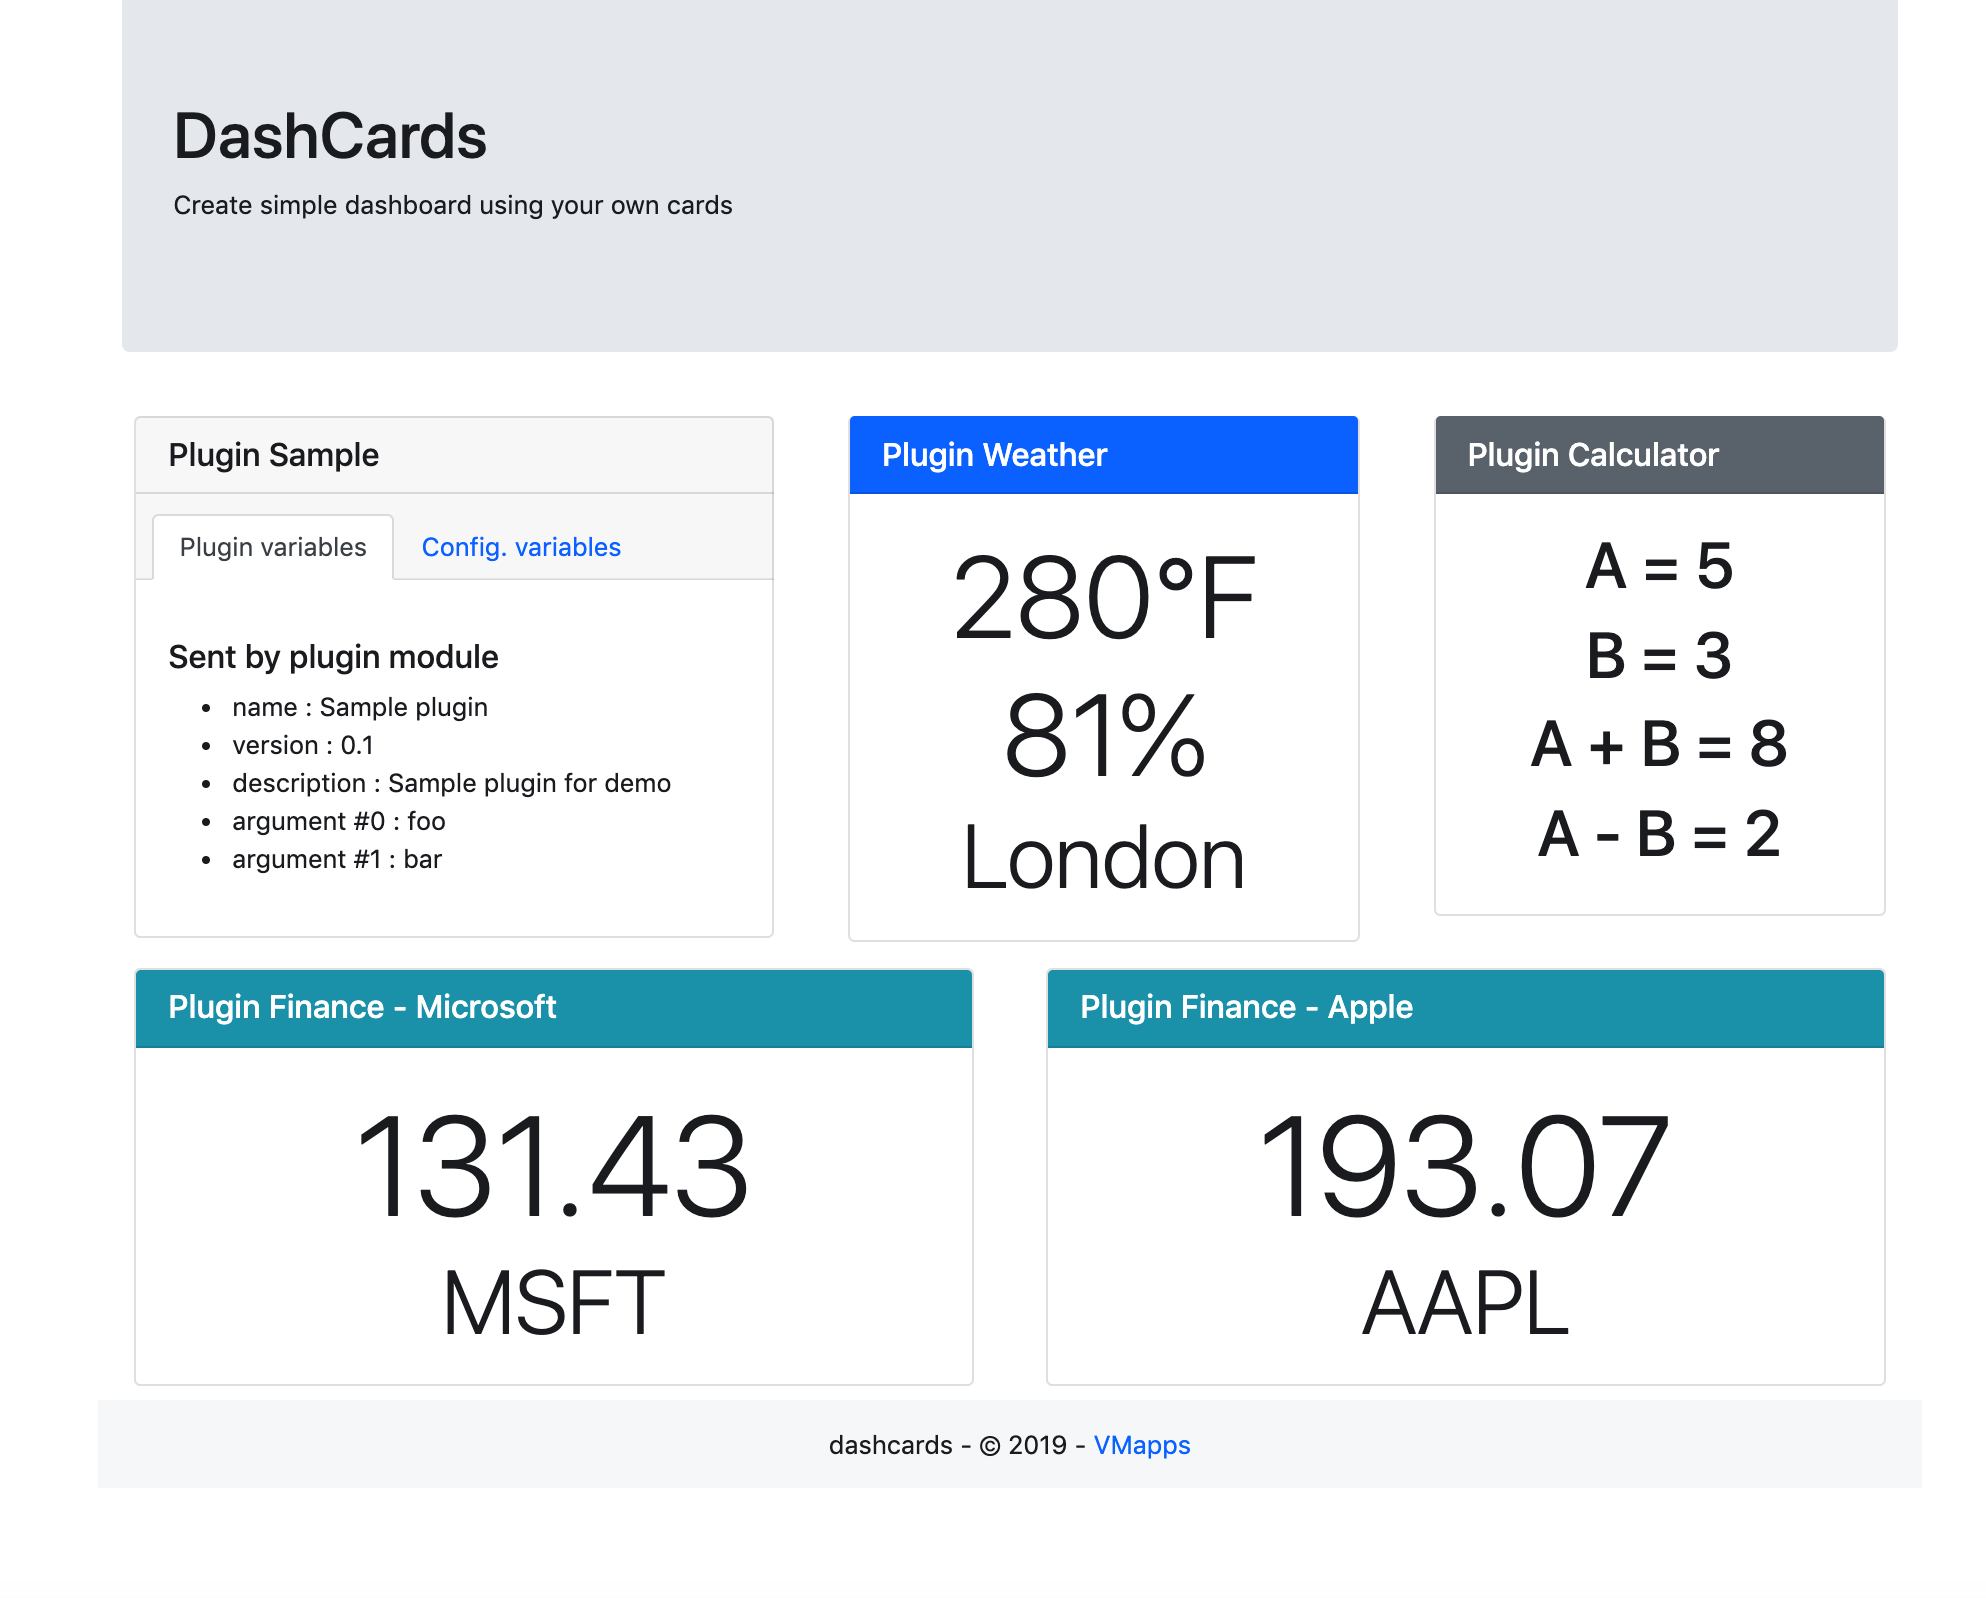
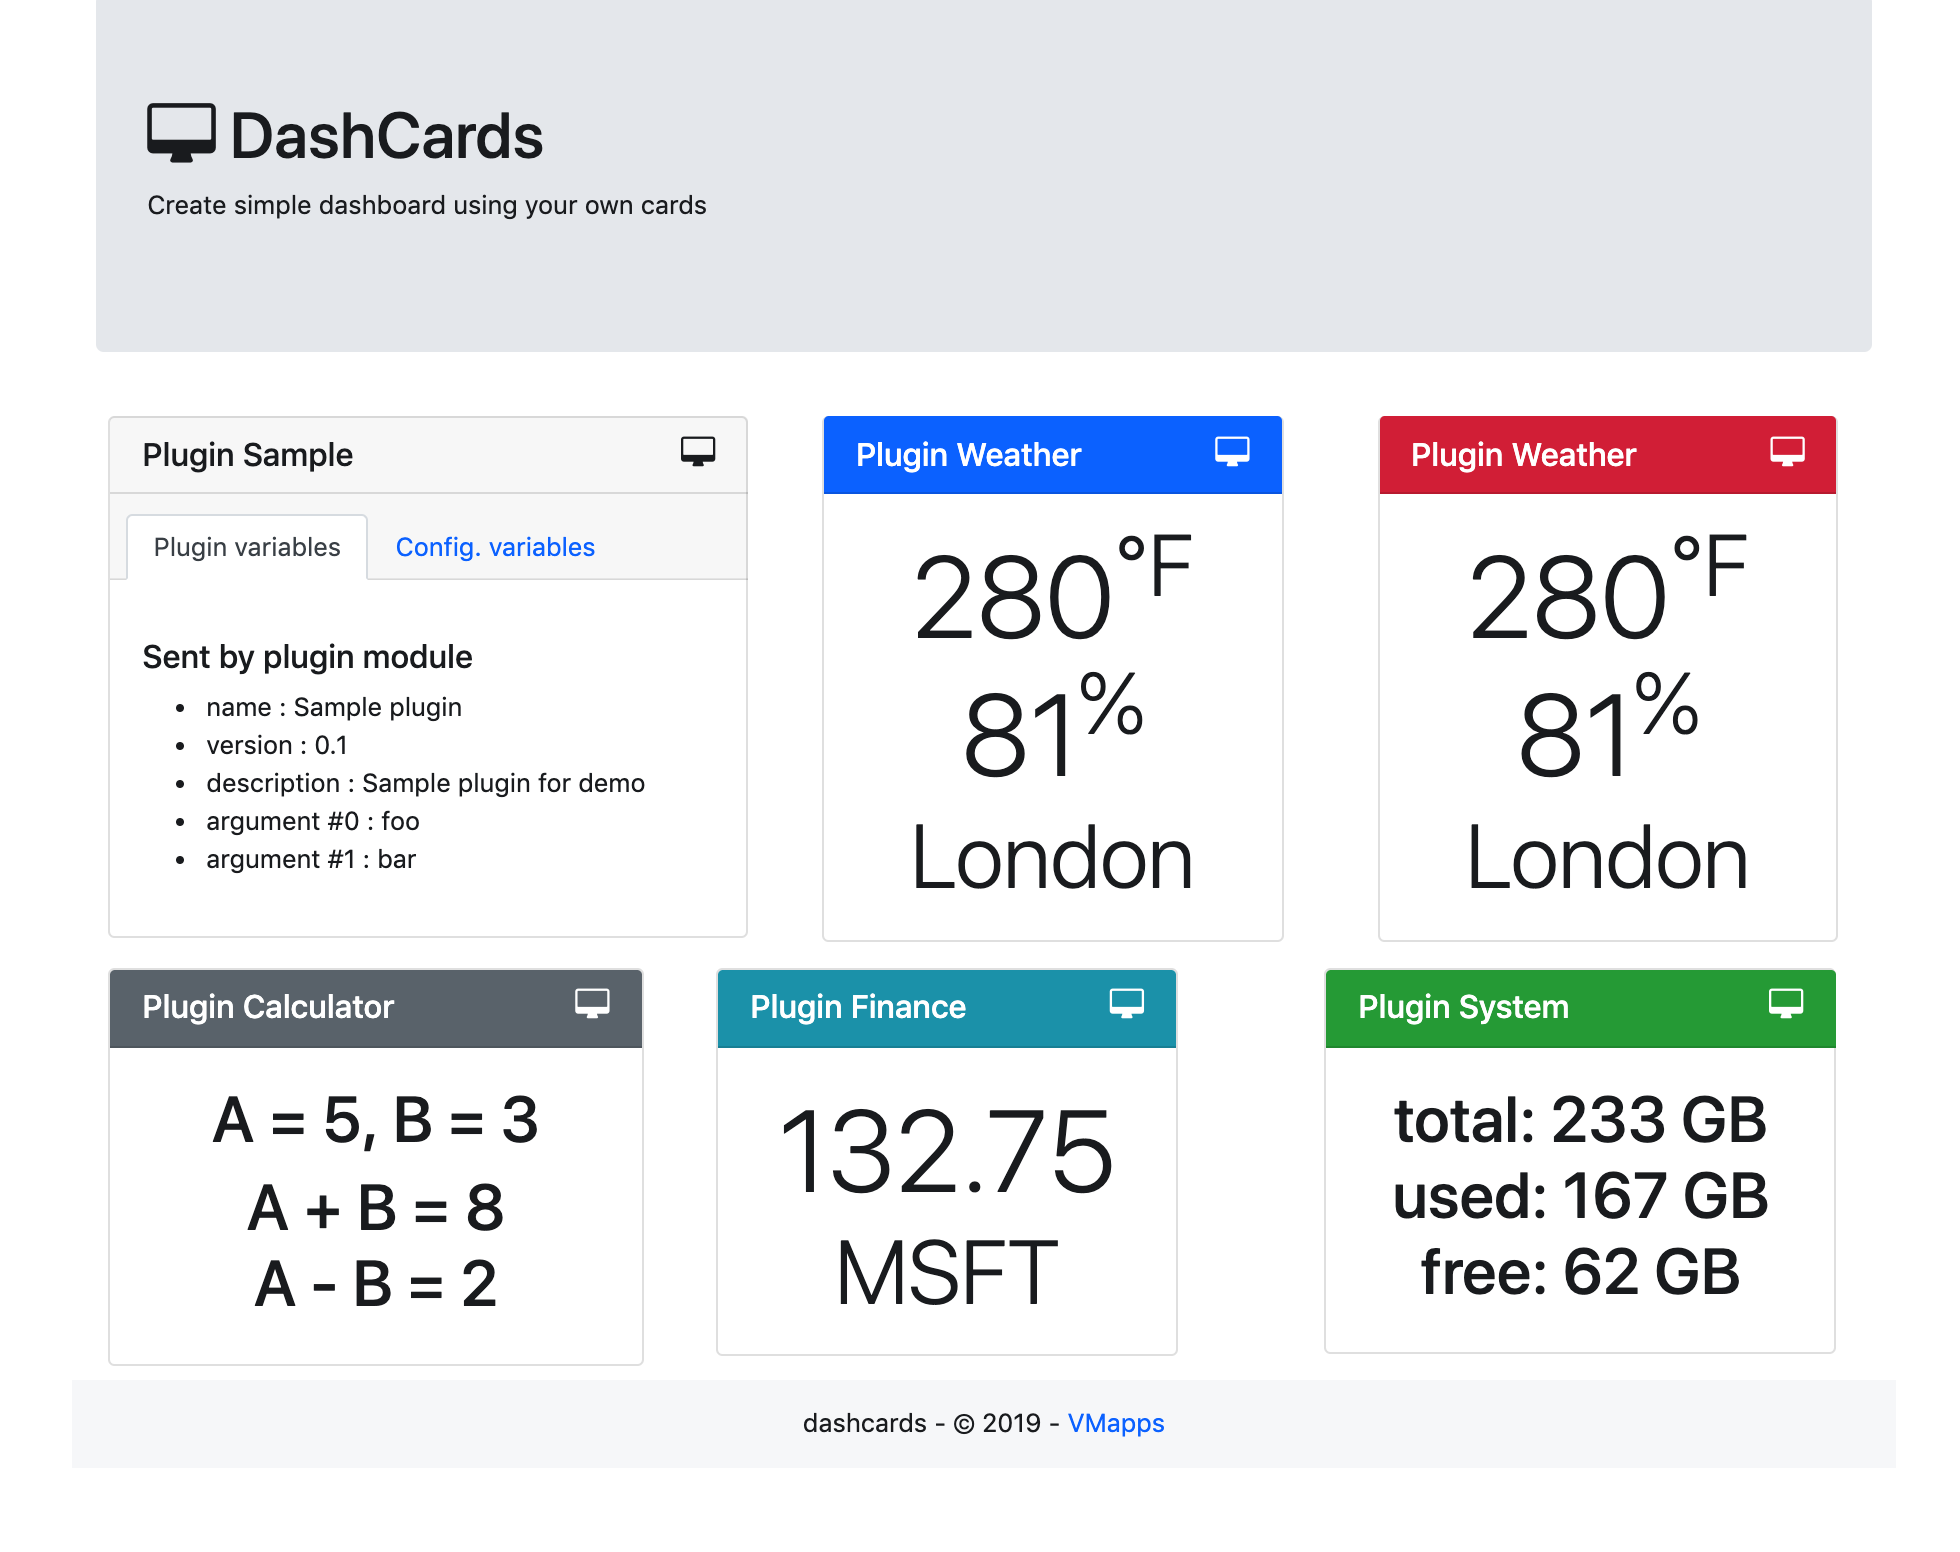
add font awesome support

diff --git a/samples/dashcards.html b/samples/dashcards.html
@@ -4,7 +4,10 @@
 <head>
 	<meta http-equiv="Content-Type" content="text/html charset=UTF-8" />
 	<meta name="viewport" content="width=device-width, initial-scale=1">
+	<!-- Font Awesome - https://fontawesome.com/v4.7.0/icons/ -->
+	<link rel="stylesheet" href="https://stackpath.bootstrapcdn.com/font-awesome/4.7.0/css/font-awesome.min.css" integrity="sha384-wvfXpqpZZVQGK6TAh5PVlGOfQNHSoD2xbE+QkPxCAFlNEevoEH3Sl0sibVcOQVnN" crossorigin="anonymous">
 	<link rel="stylesheet" href="https://stackpath.bootstrapcdn.com/bootstrap/4.3.1/css/bootstrap.min.css" integrity="sha384-ggOyR0iXCbMQv3Xipma34MD+dH/1fQ784/j6cY/iJTQUOhcWr7x9JvoRxT2MZw1T" crossorigin="anonymous">
+	<!-- Bootstrap - https://getbootstrap.com/docs/4.3/ -->
 	<script src="https://code.jquery.com/jquery-3.3.1.slim.min.js" integrity="sha384-q8i/X+965DzO0rT7abK41JStQIAqVgRVzpbzo5smXKp4YfRvH+8abtTE1Pi6jizo" crossorigin="anonymous"></script>
 	<script src="https://cdnjs.cloudflare.com/ajax/libs/popper.js/1.14.7/umd/popper.min.js" integrity="sha384-UO2eT0CpHqdSJQ6hJty5KVphtPhzWj9WO1clHTMGa3JDZwrnQq4sF86dIHNDz0W1" crossorigin="anonymous"></script>
 	<script src="https://stackpath.bootstrapcdn.com/bootstrap/4.3.1/js/bootstrap.min.js" integrity="sha384-JjSmVgyd0p3pXB1rRibZUAYoIIy6OrQ6VrjIEaFf/nJGzIxFDsf4x0xIM+B07jRM" crossorigin="anonymous"></script>
@@ -25,16 +28,16 @@
 	<div class="container">
 
 		<div class="jumbotron">
-			<h1>DashCards</h1> 
+			<h1><span class="fa fa-desktop" aria-hidden="true"></span> DashCards</h1> 
 			<p>Create simple dashboard using your own cards</p> 
 		</div>
 
 		<!-- Row -->
 		<div class="row">
 	
-<!-- Plugin sample id=b1615218d1b044e794dfd14d8f470c53 -->
-<div class="col"><div class="card m-2 plugin_sample" id="b1615218d1b044e794dfd14d8f470c53" style="width: 25rem;">
-	<h5 class="card-header">Plugin Sample</h5>
+<!-- Plugin sample id=e29534e951f848a6b2214aa542311265 -->
+<div class="col m-2"><div class="card plugin_sample" id="e29534e951f848a6b2214aa542311265" style="width: 25rem;">
+	<h5 class="card-header"><span class="fa fa-desktop pull-right" aria-hidden="true"></span> Plugin Sample</h5>
 	<div class="card-header">
 		<ul class="nav nav-tabs card-header-tabs" id="sample-list" role="tablist">
 			<li class="nav-item"><a class="nav-link active" href="#vars_plugin" role="tab" aria-controls="vars_plugin" aria-selected="true">Plugin variables</a></li>
@@ -56,7 +59,7 @@
 			<div class="tab-pane" id="vars_config" role="tabpanel" aria-labelledby="vars_config-tab">
 				<h5>Sent by core/config module</h5>
 				<ul>
-					<li>id: b1615218d1b044e794dfd14d8f470c53</li>
+					<li>id: e29534e951f848a6b2214aa542311265</li>
 					<li>title: Plugin Sample</li>
 					<li>plugin: sample</li>
 					<li>arguments: ['foo', 'bar']</li>
@@ -72,52 +75,55 @@ $('#sample-list a').on('click', function (e) {
 	e.preventDefault()
 	$(this).tab('show')
 })
-</script></div><!-- Plugin sample id=b1615218d1b044e794dfd14d8f470c53 -->
+</script></div><!-- Plugin sample id=e29534e951f848a6b2214aa542311265 -->
 
-<!-- Plugin weather id=bd8d2992cbe440ba8244e813aeade8fa -->
-<div class="col"><div class="card m-2 plugin_weather" id="bd8d2992cbe440ba8244e813aeade8fa" style="width: 18rem;">
-	<h5 class="card-header bg-primary text-white">Plugin Weather</h5>
+<!-- Plugin weather id=c19160bd03e2443aafb51cfbcc781274 -->
+<div class="col m-2"><div class="card plugin_weather" id="c19160bd03e2443aafb51cfbcc781274" style="width: 18rem;">
+	<h5 class="card-header bg-primary text-white"><span class="fa fa-desktop pull-right" aria-hidden="true"></span> Plugin Weather</h5>
 	<div class="card-body text-center">
-		<span class="display-2">36 &deg;C</span><br/>
-		<span class="display-4">Paris</span>
-	</div>
-</div></div><!-- Plugin weather id=bd8d2992cbe440ba8244e813aeade8fa -->
-
-<!-- Plugin weather id=4c2164dc60cb4c7189a5b557a775a96d -->
-<div class="col"><div class="card m-2 plugin_weather" id="4c2164dc60cb4c7189a5b557a775a96d" style="width: 18rem;">
-	<h5 class="card-header bg-primary text-white">Plugin Weather</h5>
-	<div class="card-body text-center">
-		<span class="display-2">86 &deg;F</span><br/>
+		<span class="display-3">280<sup>&deg;F</sup><br/>81<sup>%</sup></span><br/>
 		<span class="display-4">London</span>
 	</div>
-</div></div><!-- Plugin weather id=4c2164dc60cb4c7189a5b557a775a96d -->
+</div></div><!-- Plugin weather id=c19160bd03e2443aafb51cfbcc781274 -->
 
-<!-- Plugin calculator id=e6953895acb54dc485d262236ba7584e -->
-<div class="col"><div class="card m-2 plugin_calculator" id="e6953895acb54dc485d262236ba7584e">
-	<h5 class="card-header bg-secondary text-white">Plugin Calculator</h5>
+<!-- Plugin weather id=bdb29c3145824d96aba66312655c6036 -->
+<div class="col m-2"><div class="card plugin_weather" id="bdb29c3145824d96aba66312655c6036" style="width: 18rem;">
+	<h5 class="card-header bg-danger text-white"><span class="fa fa-desktop pull-right" aria-hidden="true"></span> Plugin Weather</h5>
 	<div class="card-body text-center">
-		<h1>A=5 , B=3</h1>
-		<span class="display-4">A + B = 8<br/>A - B = 2</span>
+		<span class="display-3">280<sup>&deg;F</sup><br/>81<sup>%</sup></span><br/>
+		<span class="display-4">London</span>
 	</div>
-</div></div><!-- Plugin calculator id=e6953895acb54dc485d262236ba7584e -->
+</div></div><!-- Plugin weather id=bdb29c3145824d96aba66312655c6036 -->
 
-<!-- Plugin finance id=53ca3e2d43d14471b52e178ffe38dd18 -->
-<div class="col"><div class="card m-2 plugin_finance" id="53ca3e2d43d14471b52e178ffe38dd18">
-	<h5 class="card-header bg-info text-white">Plugin Finance - Microsoft</h5>
+<!-- Plugin calculator id=b59e01b3e7c1468d97044ac899a2380b -->
+<div class="col m-2"><div class="card plugin_calculator" id="b59e01b3e7c1468d97044ac899a2380b">
+	<h5 class="card-header bg-secondary text-white"><span class="fa fa-desktop pull-right" aria-hidden="true"></span> Plugin Calculator</h5>
 	<div class="card-body text-center">
-		<span class="display-2">131.43</span><br/>
+		<h1>A = 5, B = 3</h1>
+		<h1>A + B = 8<br/>A - B = 2</h1>
+	</div>
+</div></div><!-- Plugin calculator id=b59e01b3e7c1468d97044ac899a2380b -->
+
+<!-- Plugin finance id=b5e704c71a2d4c2da933b2073a608c72 -->
+<div class="col m-2"><div class="card plugin_finance" id="b5e704c71a2d4c2da933b2073a608c72" style="width: 18rem;">
+	<h5 class="card-header bg-info text-white"><span class="fa fa-desktop pull-right" aria-hidden="true"></span> Plugin Finance</h5>
+	<div class="card-body text-center">
+		<span class="display-3">132.75</span><br/>
 		<span class="display-4">MSFT</span>
 	</div>
-</div></div><!-- Plugin finance id=53ca3e2d43d14471b52e178ffe38dd18 -->
+</div></div><!-- Plugin finance id=b5e704c71a2d4c2da933b2073a608c72 -->
 
-<!-- Plugin finance id=f19498b960a24df5a99c4342679dc419 -->
-<div class="col"><div class="card m-2 plugin_finance" id="f19498b960a24df5a99c4342679dc419">
-	<h5 class="card-header bg-info text-white">Plugin Finance - Apple</h5>
+<!-- Plugin system id=2634530934384095aa3e0e097a78f61f -->
+<div class="col m-2"><div class="card plugin_system" id="2634530934384095aa3e0e097a78f61f" style="width: 20rem;">
+	<h5 class="card-header bg-success text-white"><span class="fa fa-desktop pull-right" aria-hidden="true"></span> Plugin System</h5>
 	<div class="card-body text-center">
-		<span class="display-2">193.07</span><br/>
-		<span class="display-4">AAPL</span>
-	</div>
-</div></div><!-- Plugin finance id=f19498b960a24df5a99c4342679dc419 -->
+		<h1>
+			total: 233 GB<br/>
+			used: 167 GB<br/>
+			free: 62 GB
+		</h1>
+</div>
+</div></div><!-- Plugin system id=2634530934384095aa3e0e097a78f61f -->
 		<!-- Row -->
 		</div>
 
@@ -129,7 +135,7 @@ $('#sample-list a').on('click', function (e) {
 
 	<!-- Copyright -->
 	<div class="footer-copyright text-center py-3">
-		dashcards - &copy; 2019 - <a href="https://github.com/vmapps/"> VMapps</a>
+		dashcards - &copy; 2019 - <a target="_new" href="https://github.com/vmapps/dashcards/"> VMapps</a>
 	</div>
 	<!-- Copyright -->
 

diff --git a/templates/_header.html b/templates/_header.html
@@ -4,7 +4,10 @@
 <head>
 	<meta http-equiv="Content-Type" content="text/html charset=UTF-8" />
 	<meta name="viewport" content="width=device-width, initial-scale=1">
+	<!-- Font Awesome - https://fontawesome.com/v4.7.0/icons/ -->
+	<link rel="stylesheet" href="https://stackpath.bootstrapcdn.com/font-awesome/4.7.0/css/font-awesome.min.css" integrity="sha384-wvfXpqpZZVQGK6TAh5PVlGOfQNHSoD2xbE+QkPxCAFlNEevoEH3Sl0sibVcOQVnN" crossorigin="anonymous">
 	<link rel="stylesheet" href="https://stackpath.bootstrapcdn.com/bootstrap/4.3.1/css/bootstrap.min.css" integrity="sha384-ggOyR0iXCbMQv3Xipma34MD+dH/1fQ784/j6cY/iJTQUOhcWr7x9JvoRxT2MZw1T" crossorigin="anonymous">
+	<!-- Bootstrap - https://getbootstrap.com/docs/4.3/ -->
 	<script src="https://code.jquery.com/jquery-3.3.1.slim.min.js" integrity="sha384-q8i/X+965DzO0rT7abK41JStQIAqVgRVzpbzo5smXKp4YfRvH+8abtTE1Pi6jizo" crossorigin="anonymous"></script>
 	<script src="https://cdnjs.cloudflare.com/ajax/libs/popper.js/1.14.7/umd/popper.min.js" integrity="sha384-UO2eT0CpHqdSJQ6hJty5KVphtPhzWj9WO1clHTMGa3JDZwrnQq4sF86dIHNDz0W1" crossorigin="anonymous"></script>
 	<script src="https://stackpath.bootstrapcdn.com/bootstrap/4.3.1/js/bootstrap.min.js" integrity="sha384-JjSmVgyd0p3pXB1rRibZUAYoIIy6OrQ6VrjIEaFf/nJGzIxFDsf4x0xIM+B07jRM" crossorigin="anonymous"></script>
@@ -25,7 +28,7 @@
 	<div class="container">
 
 		<div class="jumbotron">
-			<h1>DashCards</h1> 
+			<h1><span class="fa fa-desktop" aria-hidden="true"></span> DashCards</h1> 
 			<p>Create simple dashboard using your own cards</p> 
 		</div>
 

diff --git a/templates/weather.html b/templates/weather.html
@@ -1,7 +1,7 @@
-<div class="card plugin_{{ card.plugin }}" id="{{ card.id }}" style="width: 20rem;">
-	<h5 class="card-header bg-primary text-white">{{ card.title }}</h5>
+<div class="card plugin_{{ card.plugin }}" id="{{ card.id }}" style="width: 18rem;">
+	<h5 class="card-header bg-primary text-white"><span class="fa fa-desktop pull-right" aria-hidden="true"></span> {{ card.title }}</h5>
 	<div class="card-body text-center">
-		<span class="display-3">{{ render.main.temp|int }}&deg;{{ card.arguments[1] }}<br/>{{ render.main.humidity|int }}%</span><br/>
+		<span class="display-3">{{ render.main.temp|int }}<sup>&deg;{{ card.arguments[1] }}</sup><br/>{{ render.main.humidity|int }}<sup>%</sup></span><br/>
 		<span class="display-4">{{ render.name }}</span>
 	</div>
 </div>

diff --git a/templates/weather-alt.html b/templates/weather-alt.html
@@ -1,7 +1,7 @@
-<div class="card plugin_{{ card.plugin }}" id="{{ card.id }}" style="width: 20rem;">
-	<h5 class="card-header bg-danger text-white">{{ card.title }}</h5>
+<div class="card plugin_{{ card.plugin }}" id="{{ card.id }}" style="width: 18rem;">
+	<h5 class="card-header bg-danger text-white"><span class="fa fa-desktop pull-right" aria-hidden="true"></span> {{ card.title }}</h5>
 	<div class="card-body text-center">
-		<span class="display-3">{{ render.main.temp|int }}&deg;{{ card.arguments[1] }}<br/>{{ render.main.humidity|int }}%</span><br/>
+		<span class="display-3">{{ render.main.temp|int }}<sup>&deg;{{ card.arguments[1] }}</sup><br/>{{ render.main.humidity|int }}<sup>%</sup></span><br/>
 		<span class="display-4">{{ render.name }}</span>
 	</div>
 </div>

diff --git a/templates/calculator.html b/templates/calculator.html
@@ -1,9 +1,7 @@
 <div class="card plugin_{{ card.plugin }}" id="{{ card.id }}">
-	<h5 class="card-header bg-secondary text-white">{{ card.title }}</h5>
+	<h5 class="card-header bg-secondary text-white"><span class="fa fa-desktop pull-right" aria-hidden="true"></span> {{ card.title }}</h5>
 	<div class="card-body text-center">
-		<h1>A = {{ render.arg0 }}</h1>
-		<h1>B = {{ render.arg1 }}</h1>
-		<h1>A + B = {{ render.add }}</h1>
-		<h1>A - B = {{ render.minus }}</h1>
+		<h1>A = {{ render.arg0 }}, B = {{ render.arg1 }}</h1>
+		<h1>A + B = {{ render.add }}<br/>A - B = {{ render.minus }}</h1>
 	</div>
 </div>

diff --git a/templates/finance.html b/templates/finance.html
@@ -1,7 +1,7 @@
-<div class="card plugin_{{ card.plugin }}" id="{{ card.id }}">
-	<h5 class="card-header bg-info text-white">{{ card.title }} - {{ render.name }}</h5>
+<div class="card plugin_{{ card.plugin }}" id="{{ card.id }}" style="width: 18rem;">
+	<h5 class="card-header bg-info text-white"><span class="fa fa-desktop pull-right" aria-hidden="true"></span> {{ card.title }}</h5>
 	<div class="card-body text-center">
-		<span class="display-2">{{ render.price }}</span><br/>
+		<span class="display-3">{{ render.price }}</span><br/>
 		<span class="display-4">{{ render.symbol }}</span>
 	</div>
 </div>

diff --git a/templates/sample.html b/templates/sample.html
@@ -1,5 +1,5 @@
 <div class="card plugin_{{ card.plugin }}" id="{{ card.id }}" style="width: 25rem;">
-	<h5 class="card-header">{{ card.title }}</h5>
+	<h5 class="card-header"><span class="fa fa-desktop pull-right" aria-hidden="true"></span> {{ card.title }}</h5>
 	<div class="card-header">
 		<ul class="nav nav-tabs card-header-tabs" id="sample-list" role="tablist">
 			<li class="nav-item"><a class="nav-link active" href="#vars_plugin" role="tab" aria-controls="vars_plugin" aria-selected="true">Plugin variables</a></li>

diff --git a/templates/system.html b/templates/system.html
@@ -1,5 +1,5 @@
 <div class="card plugin_{{ card.plugin }}" id="{{ card.id }}" style="width: 20rem;">
-	<h5 class="card-header bg-success text-white">{{ card.title }} - Disk {{ render.disk }}</h5>
+	<h5 class="card-header bg-success text-white"><span class="fa fa-desktop pull-right" aria-hidden="true"></span> {{ card.title }}</h5>
 	<div class="card-body text-center">
 		<h1>
 			total: {{ render.total }} {{ render.units }}<br/>
